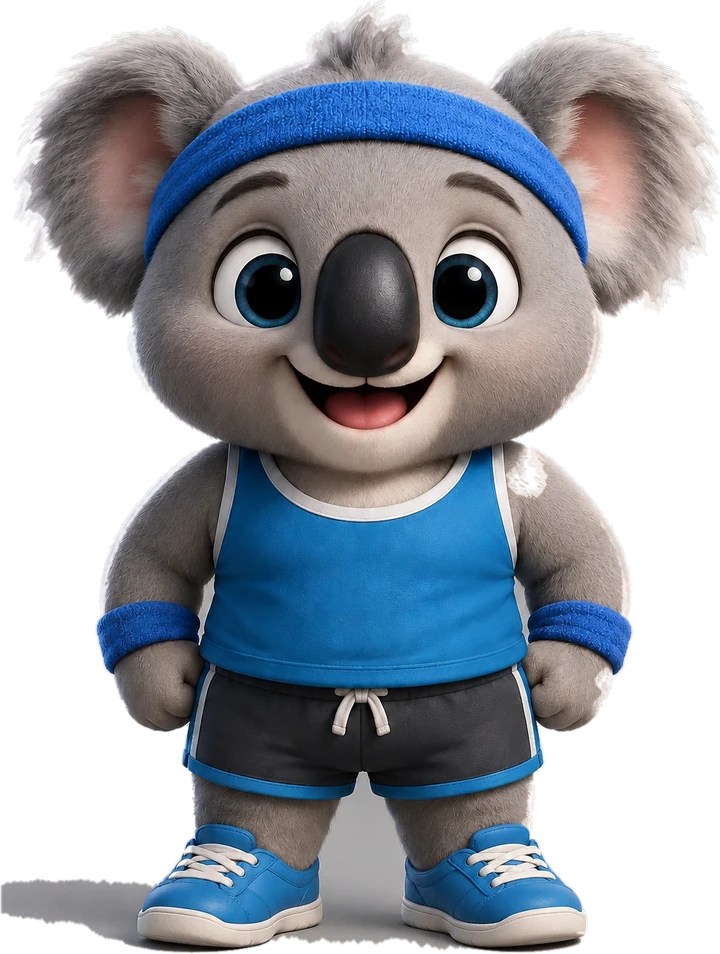
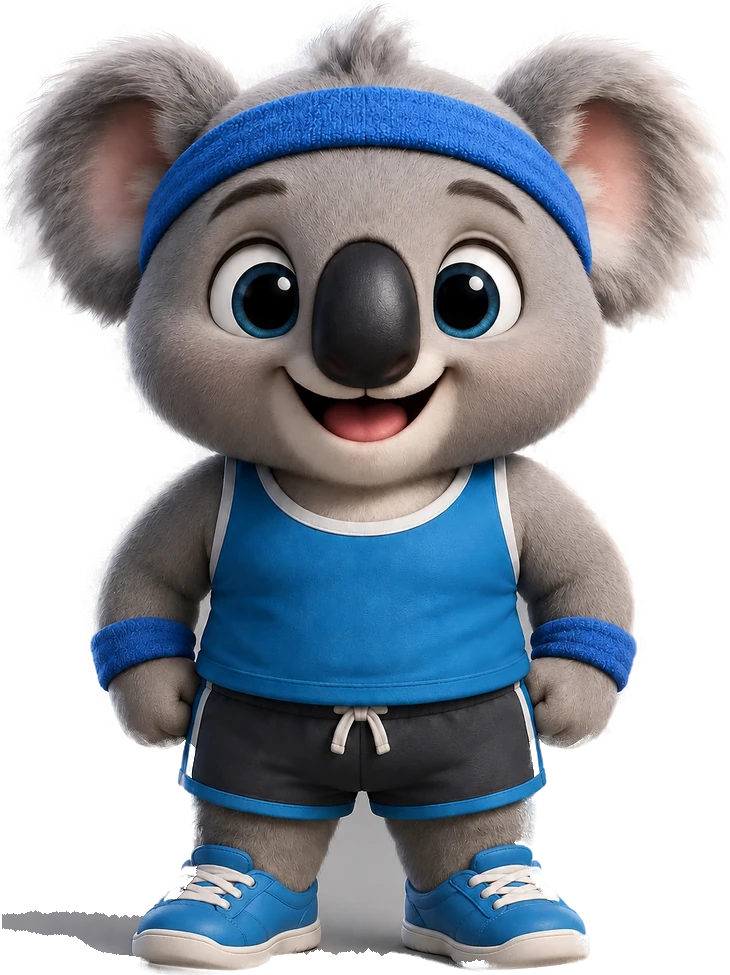
fix(native): re-cut koala mascots with closed-form alpha matting (clean edges)
The border-flood matte left jagged edges and cut into the fluffy fur. Redo
all 8 poses with pymatting closed-form matting (pure numpy/scipy, no model
download — works within the network policy): build a trimap from the flood
silhouette (definite fg = eroded interior, bg = far exterior + bottom shadow)
and solve for sub-pixel alpha. Fur is now smooth and anti-aliased on the dark
gym scene. Aspect ratios updated to the new crops.

Claude-Session: https://claude.ai/code/session_01CUH7TUGEuziSHu9PpEAzPC

Changed region(s): [[0.0, 0.0, 1.0, 1.0], [0.7639, 0.3648, 0.825, 0.4256]]

diff --git a/native/src/lib/mascot-images.ts b/native/src/lib/mascot-images.ts
@@ -54,15 +54,15 @@ const art = (source: number, aspect: number): PoseArt => ({ source, aspect });
 export const MASCOT_IMAGES: Record<string, MascotImageSet> = {
   koa: {
     idle: art(require('../../assets/mascots/koa.png'), 859 / 640),
-    happy: art(require('../../assets/mascots/koa-happy.webp'), 1.325),
-    sad: art(require('../../assets/mascots/koa-sad.webp'), 1.318),
-    tired: art(require('../../assets/mascots/koa-sad.webp'), 1.318),
-    sleep: art(require('../../assets/mascots/koa-sleep.webp'), 1.431),
-    celebrate: art(require('../../assets/mascots/koa-celebrate.webp'), 1.375),
-    curl: art(require('../../assets/mascots/koa-curl.webp'), 1.333),
-    wave: art(require('../../assets/mascots/koa-wave.webp'), 1.331),
-    hat: art(require('../../assets/mascots/koa-hat.webp'), 1.524),
-    coat: art(require('../../assets/mascots/koa-coat.webp'), 1.367),
+    happy: art(require('../../assets/mascots/koa-happy.webp'), 1.336),
+    sad: art(require('../../assets/mascots/koa-sad.webp'), 1.330),
+    tired: art(require('../../assets/mascots/koa-sad.webp'), 1.330),
+    sleep: art(require('../../assets/mascots/koa-sleep.webp'), 1.448),
+    celebrate: art(require('../../assets/mascots/koa-celebrate.webp'), 1.381),
+    curl: art(require('../../assets/mascots/koa-curl.webp'), 1.324),
+    wave: art(require('../../assets/mascots/koa-wave.webp'), 1.347),
+    hat: art(require('../../assets/mascots/koa-hat.webp'), 1.531),
+    coat: art(require('../../assets/mascots/koa-coat.webp'), 1.386),
   },
 };
 
